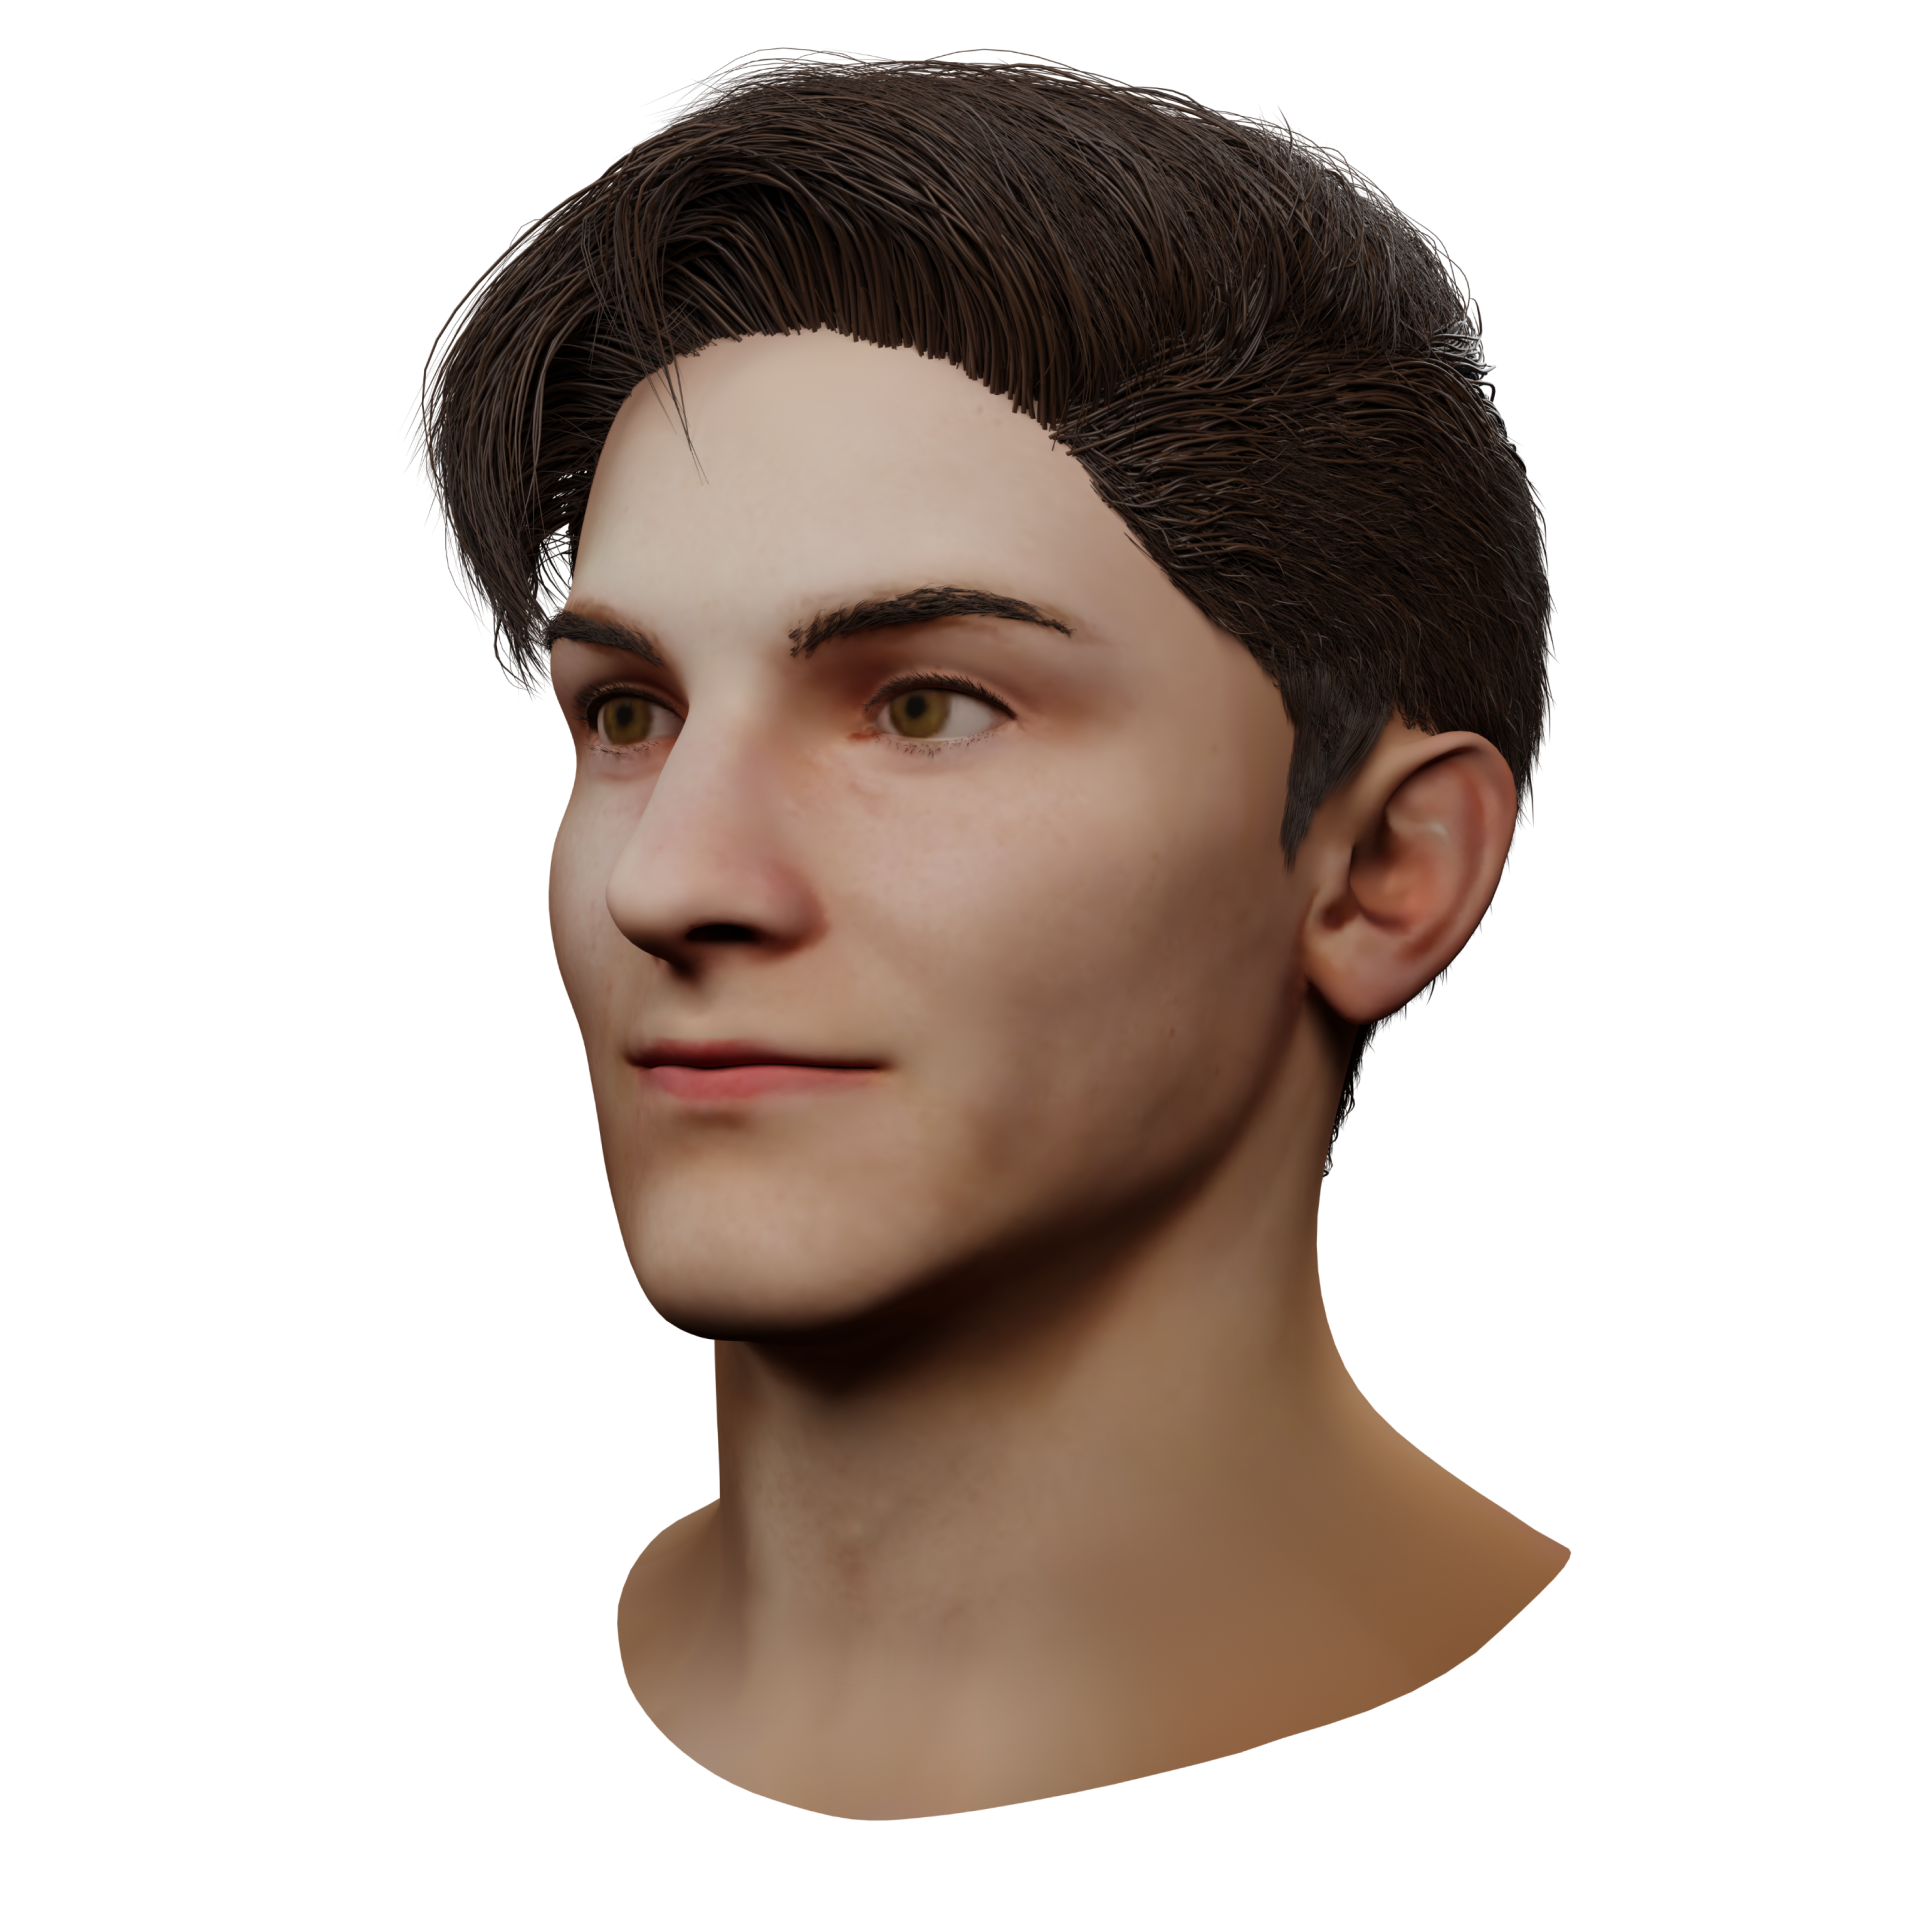
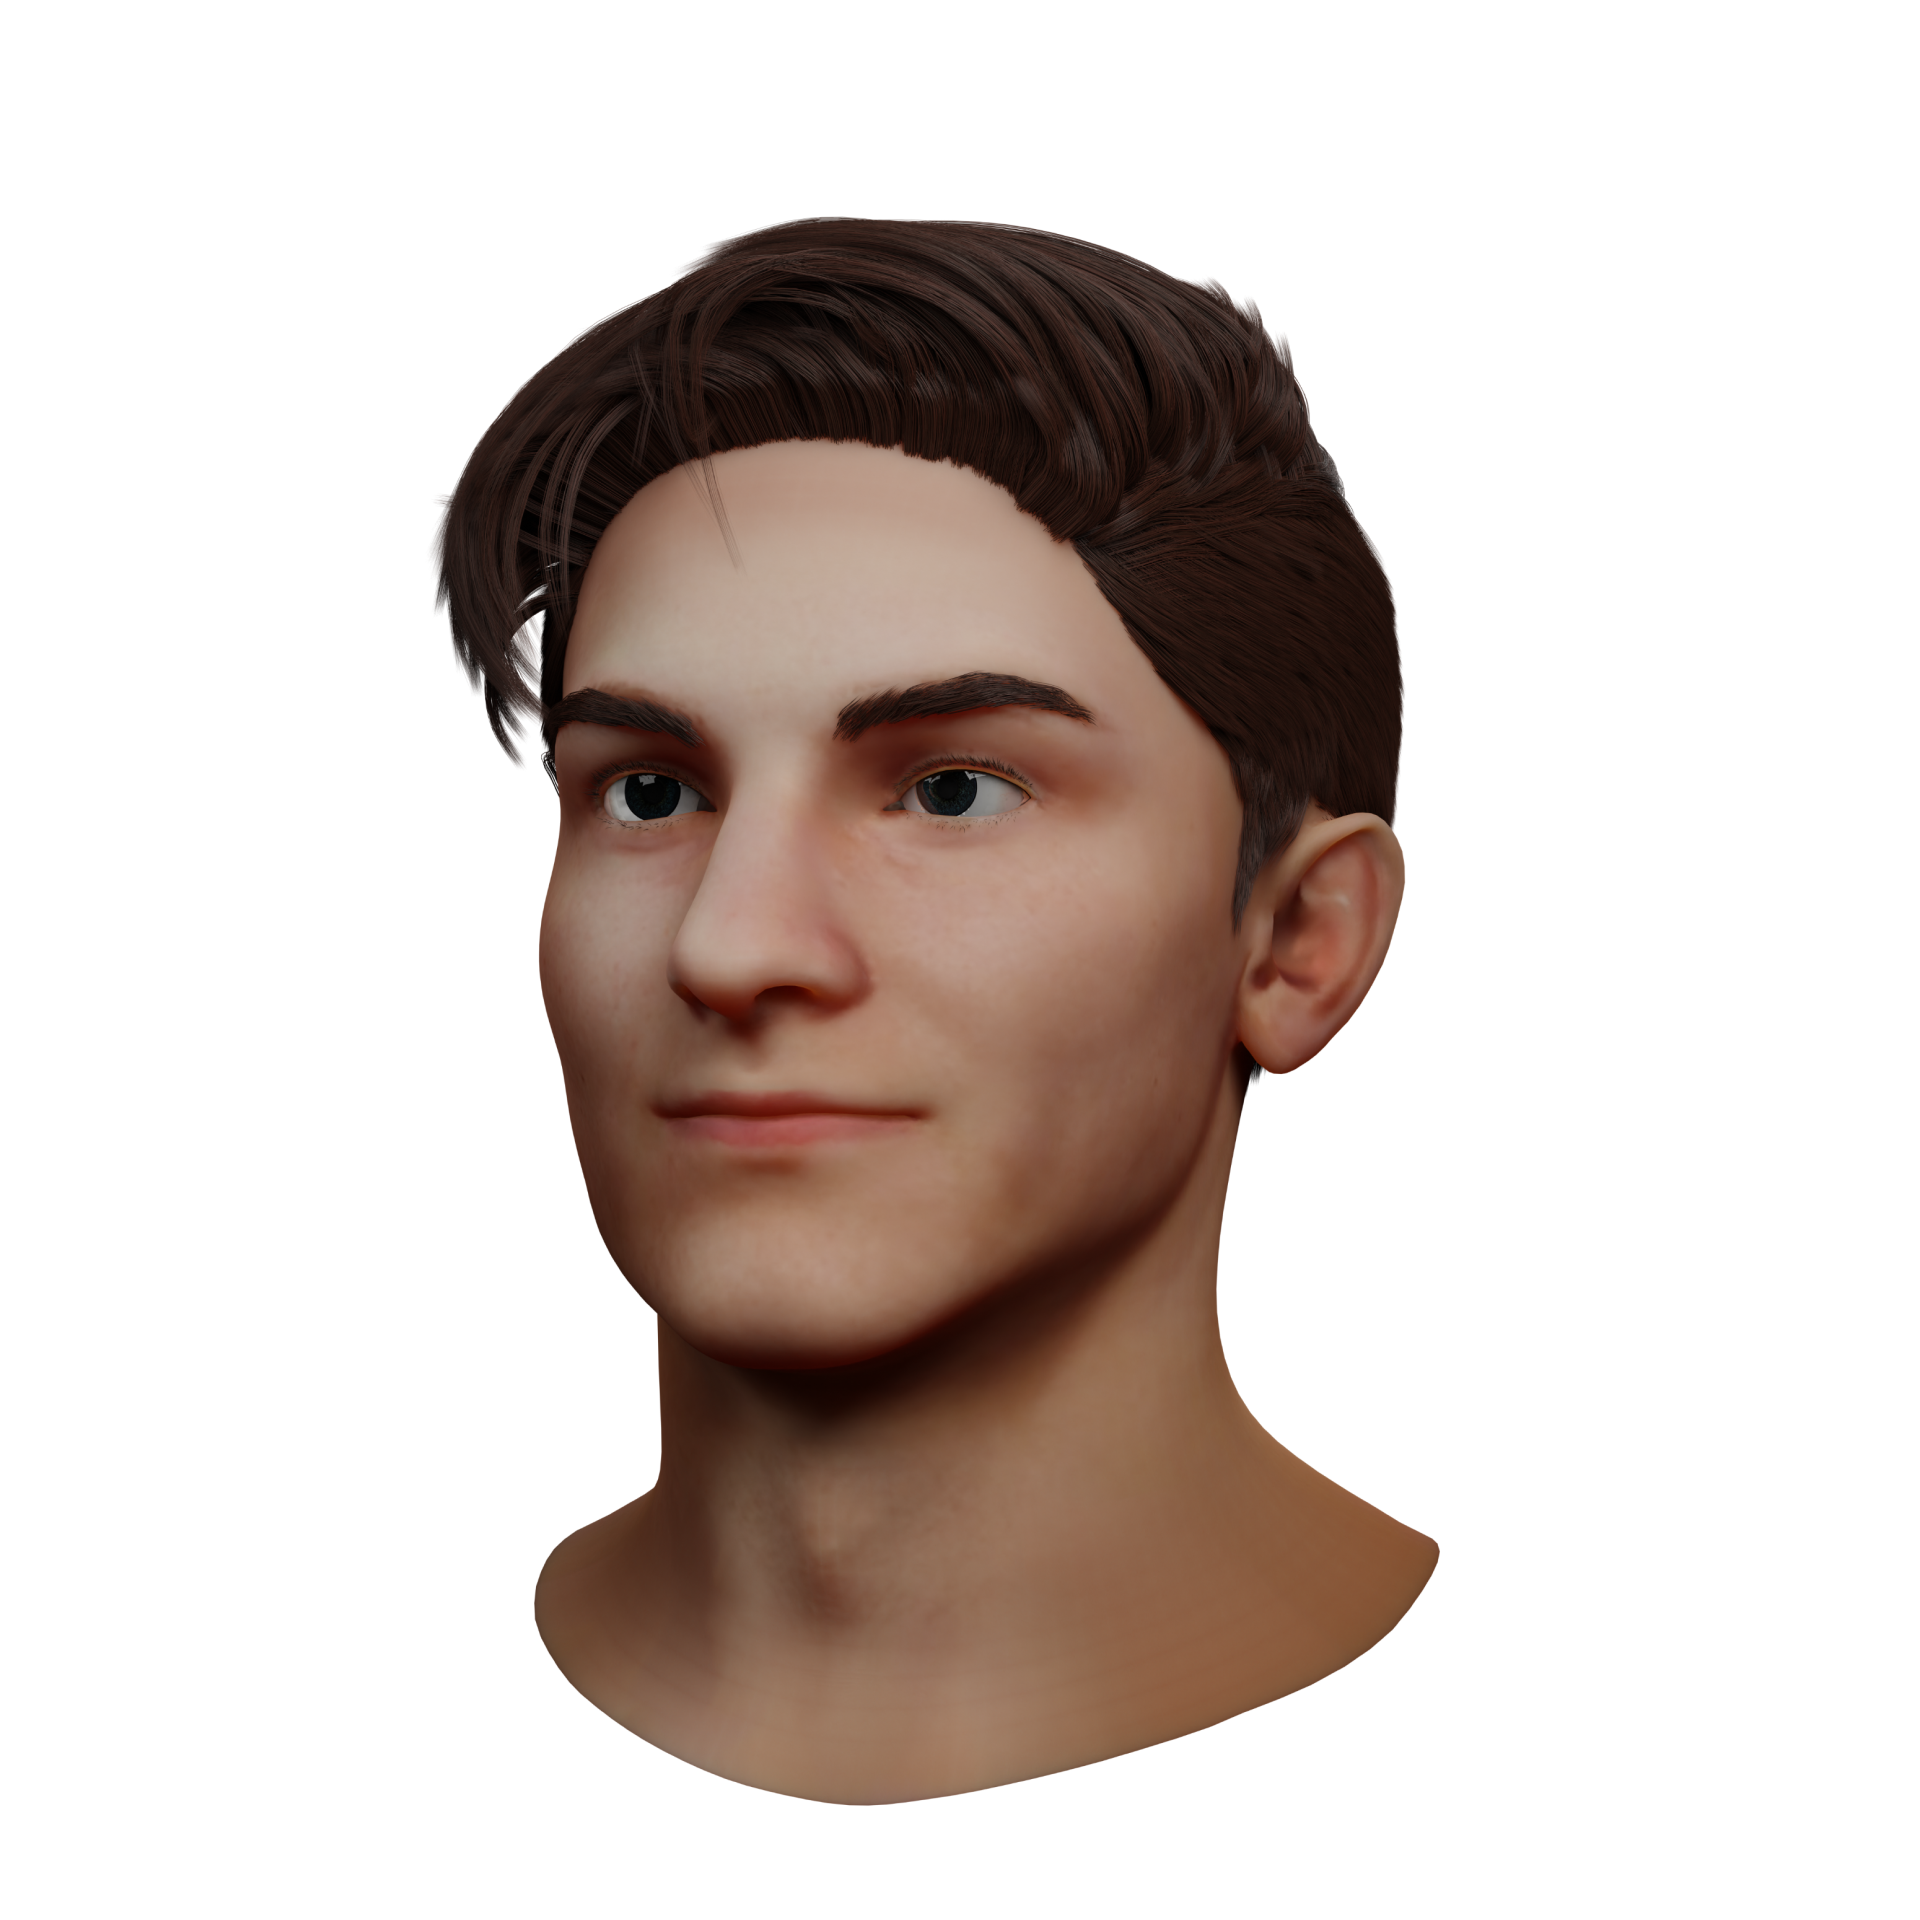
Tweak ImagePopup file and add Peter Parker head

Changed region(s): [[0.2188, 0.0312, 0.8125, 0.9688], [0.3438, 0.9062, 0.4062, 0.9375]]

diff --git a/src/components/Info.js b/src/components/Info.js
@@ -60,6 +60,8 @@ export const ThreeD = {
   symbioteShaderEditor:
     "Here, two 3D noise textures with three bump nodes were utilized to achieve a liquid-like symbiote effect. The first noise texture was connected to a generation mapping, and both were inputted into a final bump node, where their normal was mixed and added to the principled BSDF. This was the inner part of the mask, which was much more alien and fluid. To create the outer part, the scale of the noise texture was increased, and the color ramp was fine-tuned. Additionally, more detail and overall roughness were added to complete the look.",
   mask: "The mask's webbing is thicker and wider than the full suit model's. This process was tedious, requiring 16 vertices (5 faces) at each intersection as opposed to one. Still, the depth added to the mask was worth it; I liked the final render. I used a bevel to preserve sharp edges for the lenses and then Blender's Sculpt tool to create small indentations for a realistic, imperfect finish.",
+  parkerHead:
+    "Original face model based off of Ben Jordan from the Remastered game (2020). Keen's FaceBuilder tool was used for the head sculpt, with minor adjustments using Blender's sculp tool. Blender's geometry nodes were used for the hair, and a specular material was used for the eyes, along with a normal map for the iris to create a sense of depth.",
   hand: "This hand is made up of the same mask material above; the original hand used was part of a previous rig, which I sculpted to fit a more glove-like surrounding.",
   animation:
     "Here, Blender and Cascadeur were used to create this animation, which was replicated from Insomniac Games' Spider-Man (2018). Cascadeur's AI-assisted keyframing greatly aided in creating an accurate animation, while Blender's Geometry Nodes were utilized to create the portal and Blender's NLA strips were used to slow down time.",

diff --git a/src/components/ImagePopup.js b/src/components/ImagePopup.js
@@ -1,25 +1,33 @@
-import React, { useState } from "react";
+import React, { useState, useRef } from "react";
 import ProgressiveImg from "./ProgressiveImg";
 
 function ImagePopup({ src }) {
   const [isOpen, setIsOpen] = useState(false);
+  const [imgWidth, setImgWidth] = useState(0);
+  const [imgHeight, setImgHeight] = useState(0);
   const isMobile = window.innerWidth <= 768;
+  const imgRef = useRef();
+
+  const handleImageLoad = () => {
+    if (imgRef.current) {
+      setImgWidth(imgRef.current.offsetWidth);
+      setImgHeight(imgRef.current.offsetHeight);
+    }
+  };
 
   return (
     <>
-      <img
-        src={src}
-        style={{ width: "100%", cursor: "zoom-in" }}
-        onClick={() => setIsOpen(true)}
-        alt=""
-      />
-      {/* <ProgressiveImg
-        src={src}
-        placeholderSrc="images/insomniac-games.jpeg"
-        width={src.maxWidth}
-        height={src.maxHeight}
-        onClick={() => setIsOpen(true)}
-      /> */}
+      {!isOpen && (
+        <img
+          ref={imgRef}
+          src={src}
+          style={{ width: "100%", cursor: "zoom-in" }}
+          onClick={() => setIsOpen(true)}
+          onLoad={handleImageLoad}
+          alt=""
+        />
+      )}
+      {isOpen && <div style={{ width: imgWidth, height: imgHeight }} />}
       {isOpen && !isMobile && (
         <div
           style={{

diff --git a/src/components/3d/3d.js b/src/components/3d/3d.js
@@ -15,6 +15,7 @@ import Dropdown from "./3dComponents/Dropdown";
 function DateLog({ date }) {
   return <Text size="2">Finished {date}.</Text>;
 }
+
 function FullSuit() {
   return (
     <>
@@ -98,6 +99,18 @@ function SymbioteMask() {
   );
 }
 
+function ParkerHead() {
+  return (
+    <>
+      <Divider />
+      <Text size="5">Peter Parker</Text>
+      <ImagePopup src="images/3d/parker_head.png" />
+      <DateLog date="October 9, 2023" />
+      <Documentation text={ThreeDInfo.parkerHead} />
+    </>
+  );
+}
+
 function Animation({ isMobile }) {
   return (
     <>
@@ -151,6 +164,7 @@ function ThreeD() {
       <NormalMask />
       <SymbioteMask />
       <SpidermanHand />
+      <ParkerHead />
       <Animation isMobile={isMobile} />
       <Conclusion />
     </Flex>
